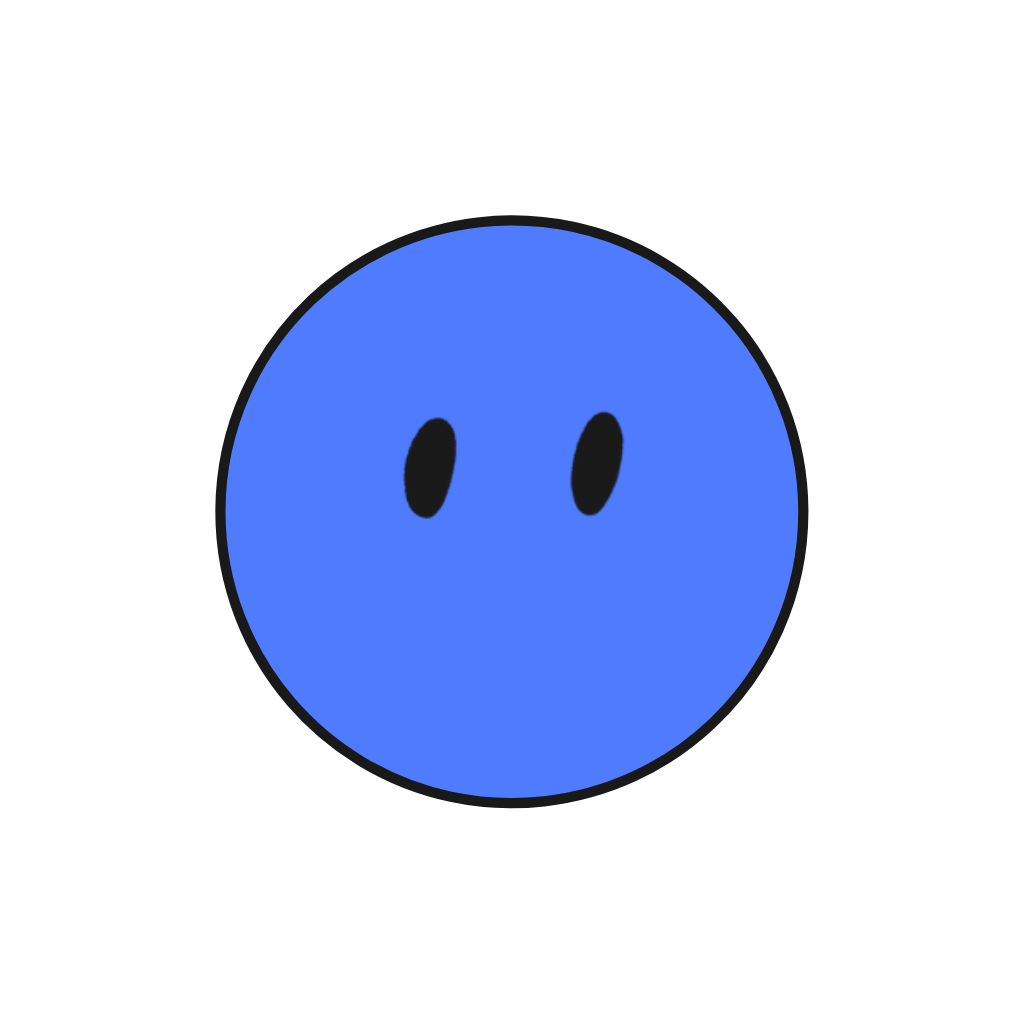
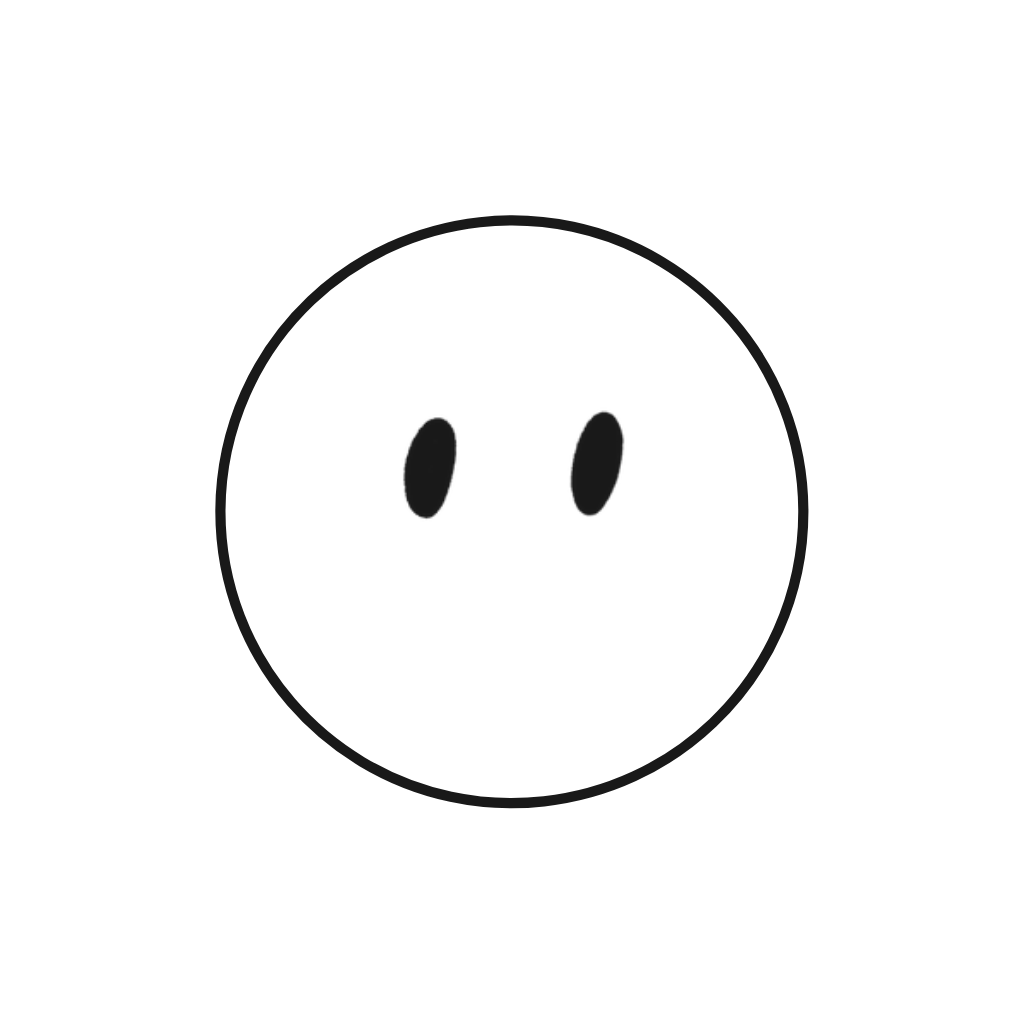
feat(mobile): put the white mark on Tilde's brand blues
Tilde publishes the app, so the icon field carries the publisher's colours
rather than the avatar palette: navy #001F6B lit from the top right by electric
blue #0038AE, the pair Tilde already uses for its own store covers. The body
becomes a plain white avatar, still with no shading, so it reads as a silhouette
against the field at launcher sizes.

Changed region(s): [[0.2188, 0.2188, 0.7812, 0.7812]]

diff --git a/apps/mobile/app.config.ts b/apps/mobile/app.config.ts
@@ -50,7 +50,7 @@ const config: ExpoConfig = {
     adaptiveIcon: {
       foregroundImage: "./assets/adaptive-icon.png",
       backgroundImage: "./assets/adaptive-background.png",
-      backgroundColor: "#000000",
+      backgroundColor: "#001F6B",
     },
   },
   plugins: ["expo-secure-store", "expo-image"],
